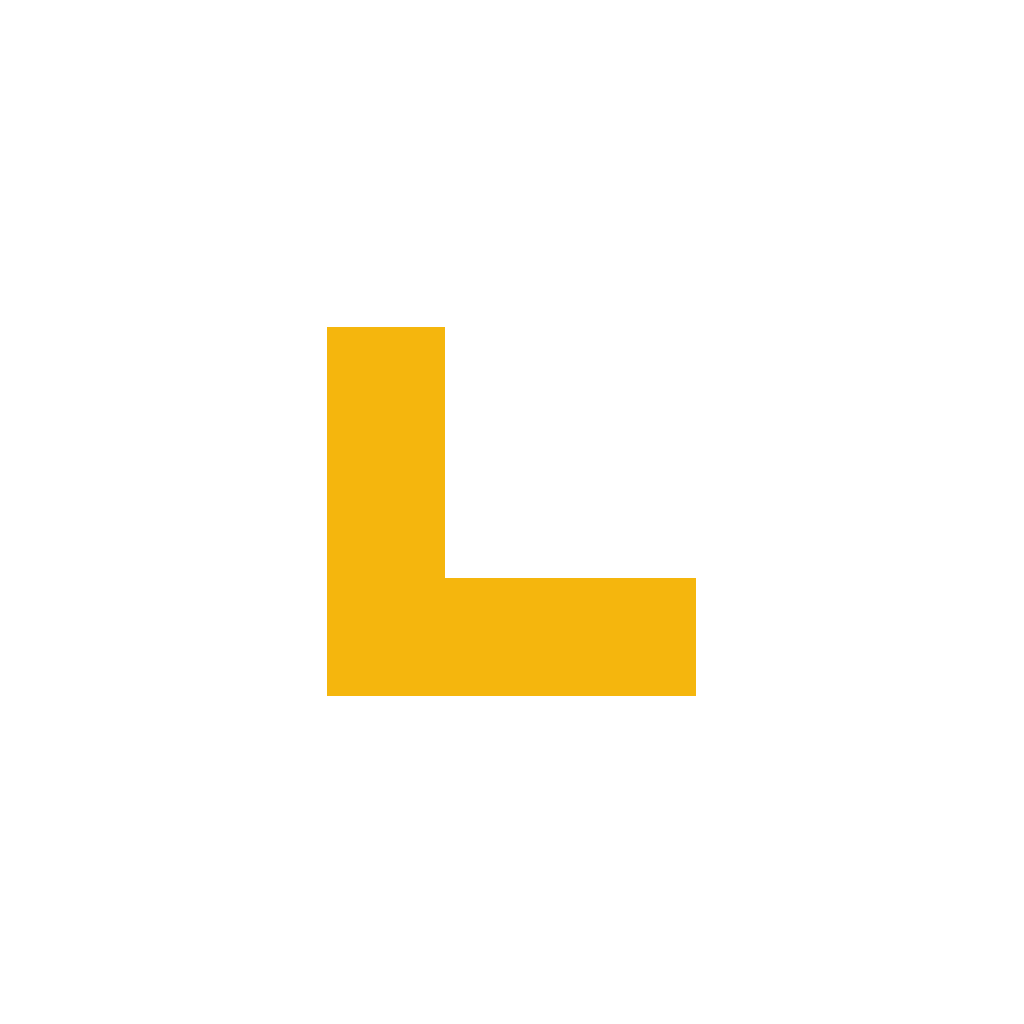
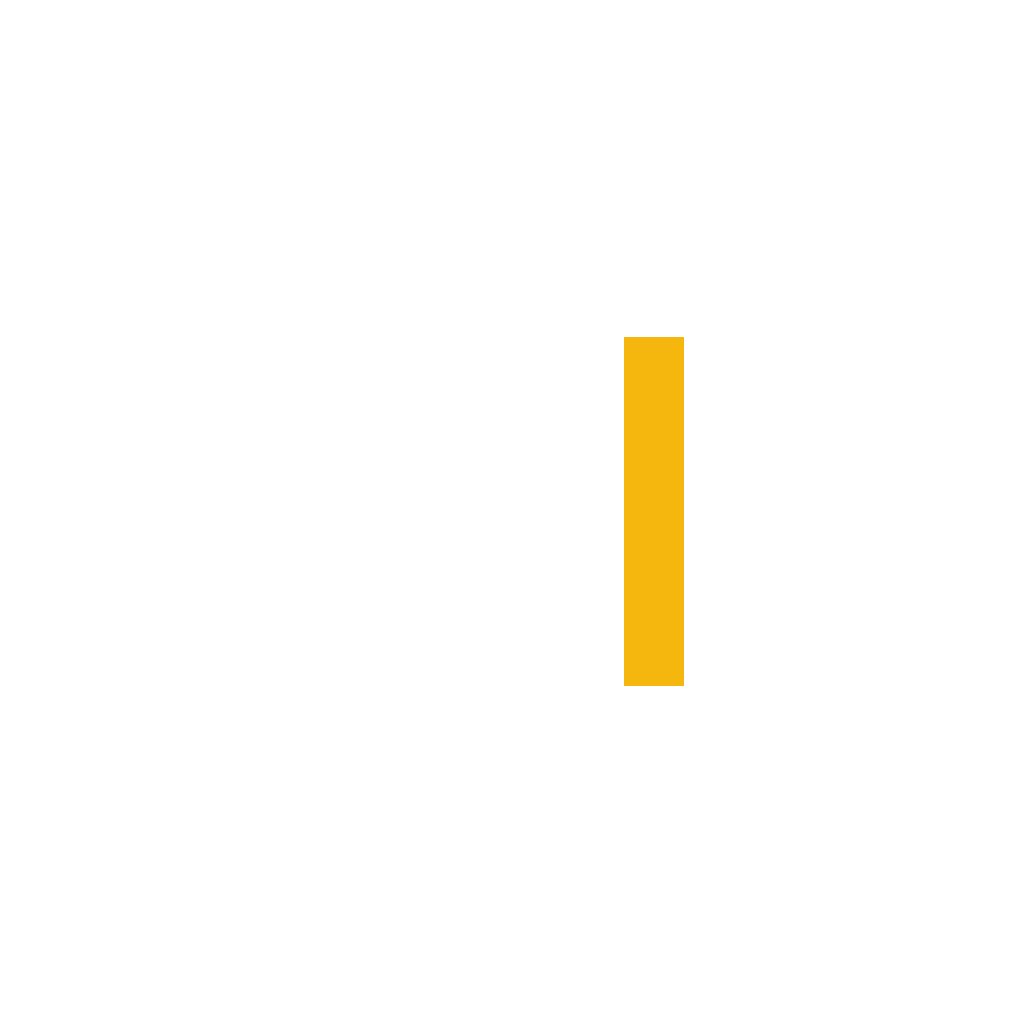
Corrige a marca para o simbolo real do Lymark
O icone gerado usava um "L" ambar sobre navy. A marca verdadeira, lida do
icone do app instalado no aparelho, e um "L" branco com uma barra ambar
vertical a direita, sobre fundo navy.

Corrige o gerador de icones e o componente Wordmark, que agora desenha o
mesmo simbolo em views — icone do aplicativo e marca dentro do app
passam a ter as mesmas proporcoes e as mesmas cores.

Changed region(s): [[0.3125, 0.3125, 0.6875, 0.6875]]

diff --git a/src/components/brand/wordmark.tsx b/src/components/brand/wordmark.tsx
@@ -1,29 +1,52 @@
 import { StyleSheet, Text, View } from 'react-native';
 
-import { colors, radius, spacing, typography } from '@/theme';
+import { colors, spacing, typography } from '@/theme';
 
 /**
- * A marca do app: um selo amarelo com o "L" e o nome ao lado.
+ * A marca do Lymark: o selo com o "L" branco e a barra âmbar, seguido do nome.
  *
- * Desenhada em views, não em imagem — acompanha o tema, escala com a
- * tipografia do sistema e não depende de asset em resolução fixa.
+ * O símbolo é desenhado em views, não carregado como imagem — acompanha a
+ * escala tipográfica do sistema, fica nítido em qualquer densidade de tela e
+ * usa as mesmas cores do design system que geram o ícone do aplicativo.
  */
 export function Wordmark({ size = 'md' }: { size?: 'sm' | 'md' }) {
-  const badgeSize = size === 'sm' ? 28 : 36;
+  const badgeSize = size === 'sm' ? 30 : 38;
 
   return (
     <View style={styles.container}>
-      <View
-        style={[
-          styles.badge,
-          { width: badgeSize, height: badgeSize, borderRadius: radius.sm },
-        ]}>
-        <Text style={[styles.badgeLetter, { fontSize: badgeSize * 0.62 }]}>L</Text>
-      </View>
-
+      <BrandMark size={badgeSize} />
       <Text style={[typography.wordmark, size === 'sm' && styles.compactName]}>
         Ly<Text style={styles.nameAccent}>mark</Text>
       </Text>
+    </View>
+  );
+}
+
+/** O símbolo isolado, com as proporções do ícone do aplicativo. */
+function BrandMark({ size }: { size: number }) {
+  const height = size * 0.46;
+  const stroke = Math.max(2, height * 0.24);
+  const footWidth = height * 0.62;
+  const barWidth = Math.max(2, stroke * 0.72);
+  const gap = height * 0.2;
+
+  return (
+    <View
+      style={[styles.badge, { width: size, height: size, borderRadius: size / 2 }]}
+      accessibilityRole="image"
+      accessibilityLabel="Lymark">
+      <View style={{ width: footWidth + gap + barWidth, height }}>
+        {/* Haste do "L". */}
+        <View
+          style={[styles.letter, { left: 0, top: 0, width: stroke, height }]}
+        />
+        {/* Pé do "L". */}
+        <View
+          style={[styles.letter, { left: 0, bottom: 0, width: footWidth, height: stroke }]}
+        />
+        {/* Barra âmbar. */}
+        <View style={[styles.bar, { right: 0, top: 0, width: barWidth, height }]} />
+      </View>
     </View>
   );
 }
@@ -35,13 +58,17 @@ const styles = StyleSheet.create({
     gap: spacing.md,
   },
   badge: {
-    backgroundColor: colors.accent,
+    backgroundColor: colors.surfaceRaised,
     alignItems: 'center',
     justifyContent: 'center',
   },
-  badgeLetter: {
-    color: colors.onAccent,
-    fontWeight: '900',
+  letter: {
+    position: 'absolute',
+    backgroundColor: colors.text,
+  },
+  bar: {
+    position: 'absolute',
+    backgroundColor: colors.accent,
   },
   compactName: {
     fontSize: 18,
